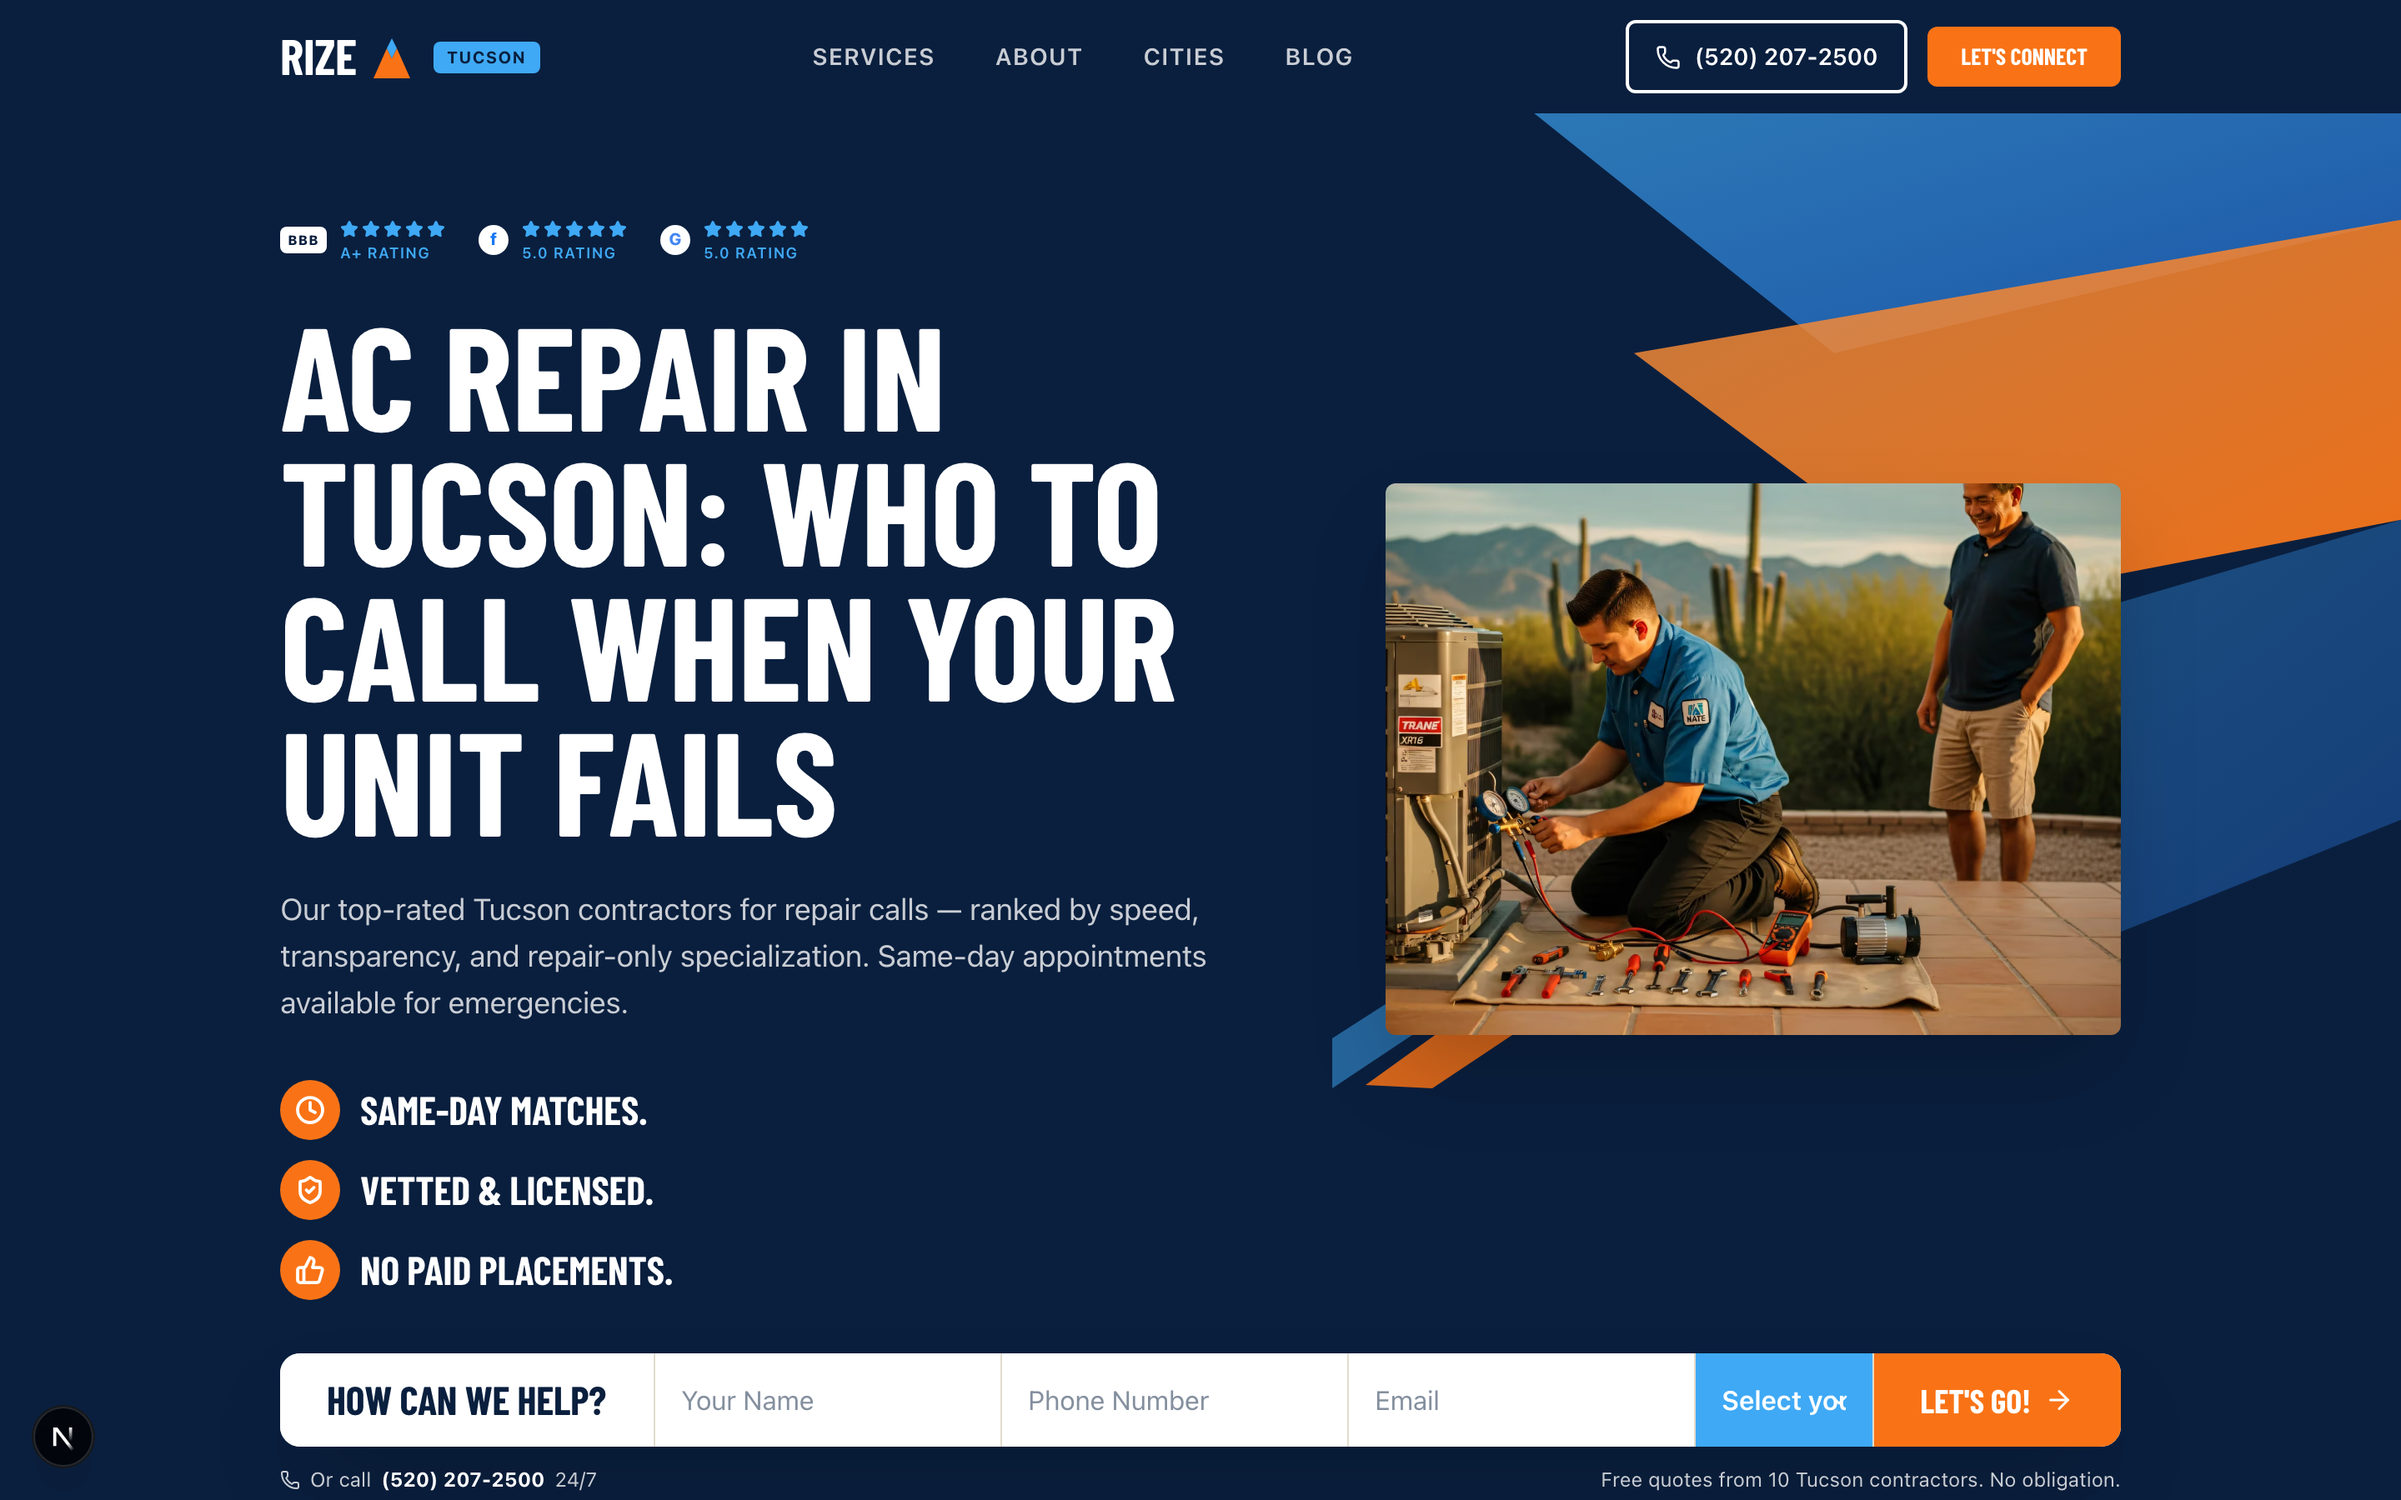
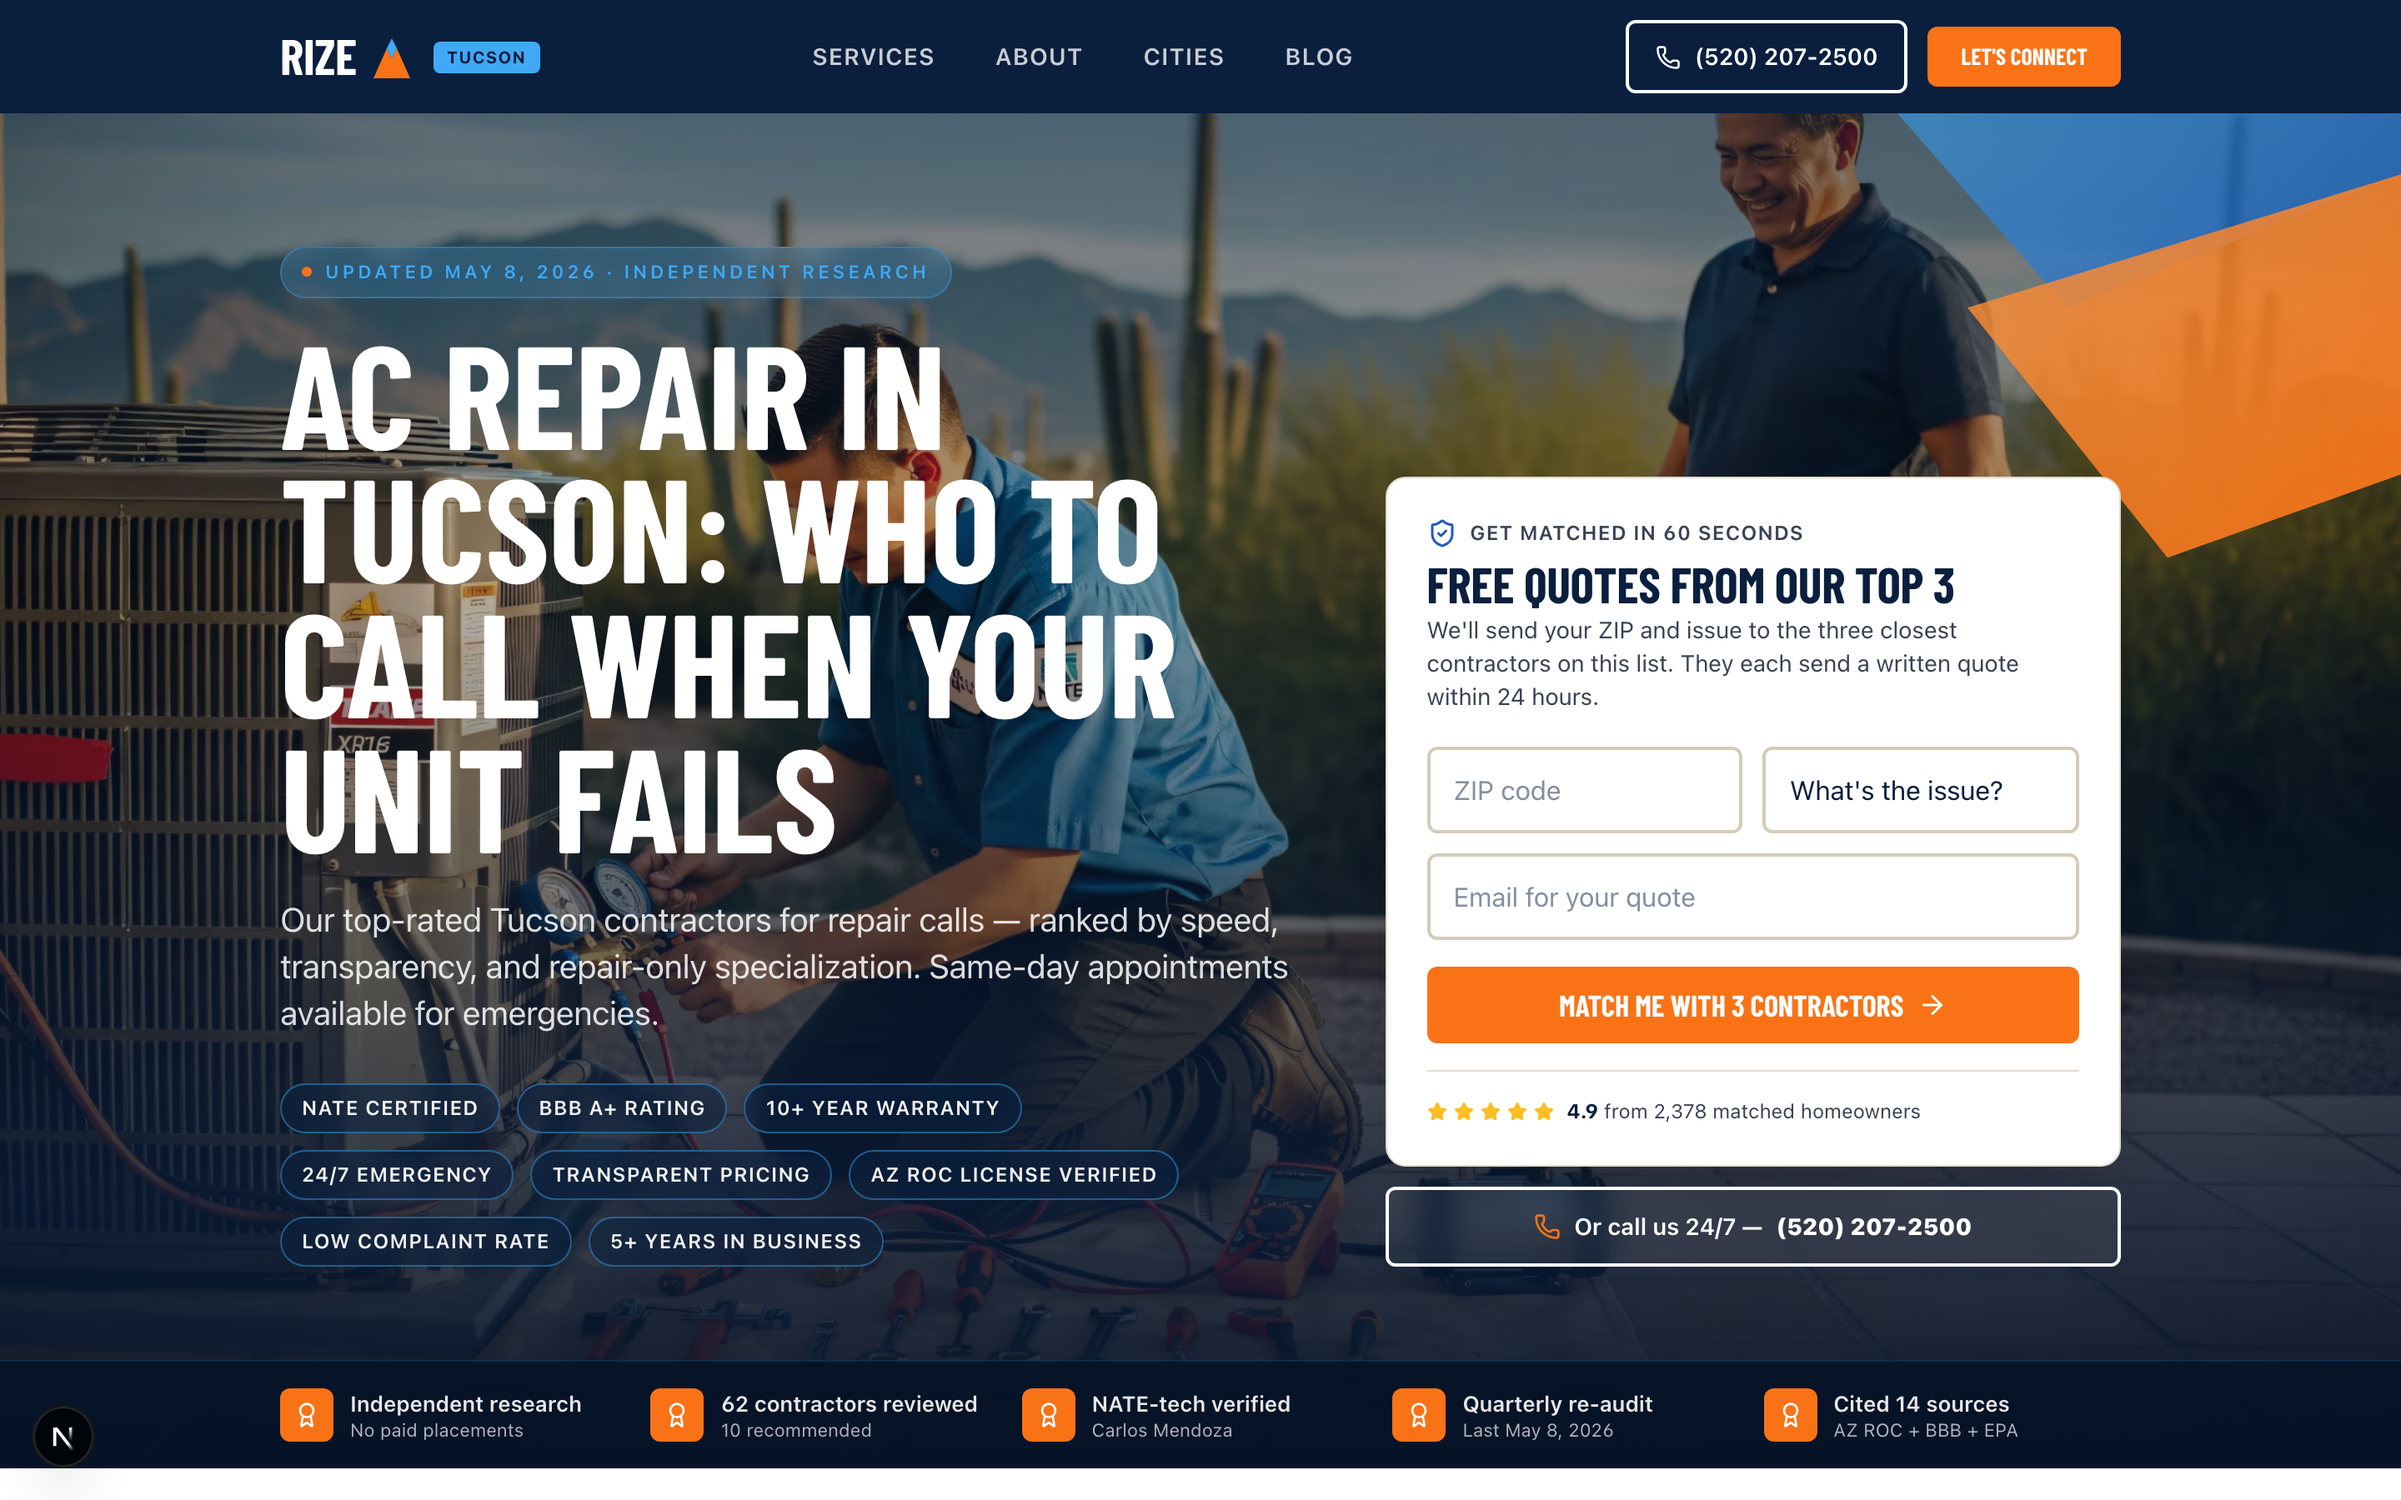
Switch /ac-repair/[city] + /hvac-cost/[city] to vB editorial hero
Replaces HeroLifestyle (vA Tundra layout) with HeroEditorial (vB
full-bleed photo + ZIP card on right) in ServiceCityPage and
CostGuidePage. All 4 routes (home, hvac/city, ac-repair/city,
hvac-cost/city) now use vB editorial consistently.

diff --git a/src/components/v2/ServiceCityPage.tsx b/src/components/v2/ServiceCityPage.tsx
@@ -1,6 +1,6 @@
 import { v2Vars } from "@/lib/v2theme";
 import { V2Header } from "./V2Header";
-import { HeroLifestyle } from "./HeroLifestyle";
+import { HeroEditorial } from "./HeroEditorial";
 import { MultiCreditByline } from "./MultiCreditByline";
 import { ComparisonTable } from "./ComparisonTable";
 import { VerifiedReviewsCarousel } from "./VerifiedReviewsCarousel";
@@ -36,7 +36,7 @@ export function ServiceCityPage({ city }: { city: CityData }) {
   return (
     <div style={{ ...v2Vars, background: "var(--brand-bg)", minHeight: "100vh", color: "var(--brand-fg)" }}>
       <V2Header phone={city.phone} cityLabel={city.meta.city} />
-      <HeroLifestyle
+      <HeroEditorial
         city={city}
         headline={`AC repair in ${city.meta.city}: who to call when your unit fails`}
         subhead={`Our top-rated ${city.meta.city} contractors for repair calls — ranked by speed, transparency, and repair-only specialization. Same-day appointments available for emergencies.`}

diff --git a/src/components/v2/CostGuidePage.tsx b/src/components/v2/CostGuidePage.tsx
@@ -1,6 +1,6 @@
 import { v2Vars } from "@/lib/v2theme";
 import { V2Header } from "./V2Header";
-import { HeroLifestyle } from "./HeroLifestyle";
+import { HeroEditorial } from "./HeroEditorial";
 import { MultiCreditByline } from "./MultiCreditByline";
 import { FaqBlock } from "@/components/shared/FaqBlock";
 import { SiteFooter } from "@/components/shared/SiteFooter";
@@ -12,7 +12,7 @@ export function CostGuidePage({ city }: { city: CityData }) {
   return (
     <div style={{ ...v2Vars, background: "var(--brand-bg)", minHeight: "100vh", color: "var(--brand-fg)" }}>
       <V2Header phone={city.phone} cityLabel={city.meta.city} />
-      <HeroLifestyle
+      <HeroEditorial
         city={city}
         headline={`How much does HVAC cost in ${city.meta.city}? 2026 prices and rebates`}
         subhead={`Real ${city.meta.city} HVAC pricing benchmarks, 4 stackable rebate programs, and what's worth paying for. Updated quarterly with data from local installs.`}
